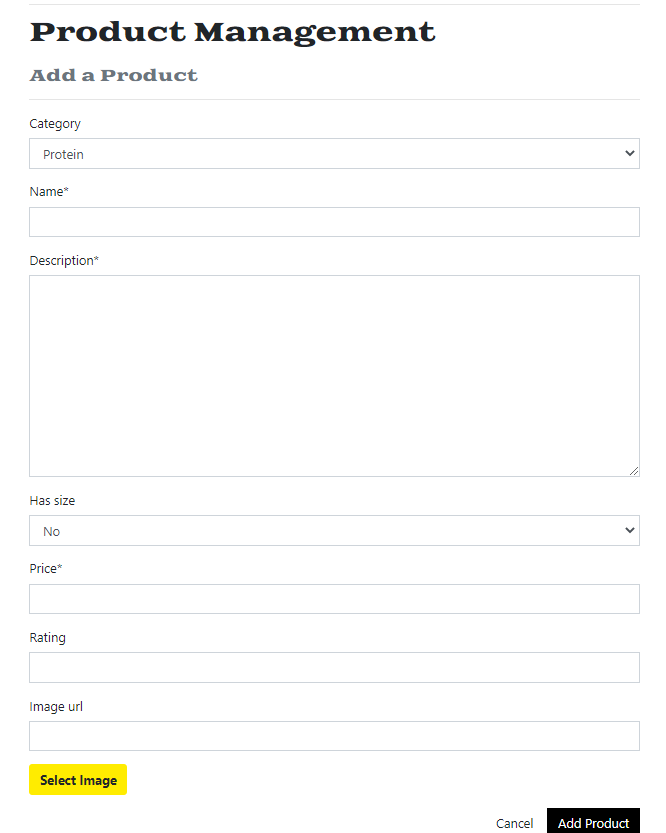
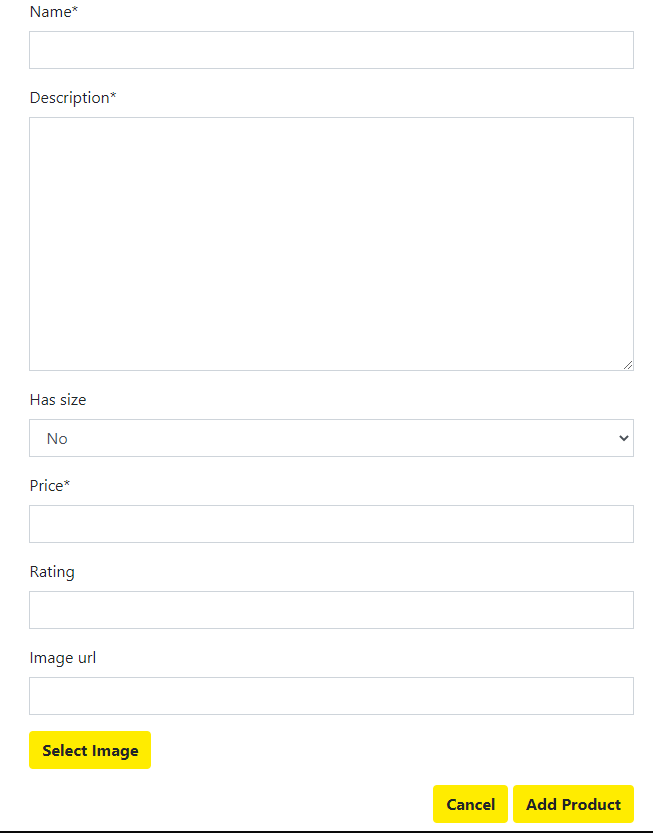
Updated readme

diff --git a/store/templates/store/add_product.html b/store/templates/store/add_product.html
@@ -25,8 +25,8 @@
                         {% endif %}
                     {% endfor %}
                     <div class="text-right">
-                        <a class="btn btn-outline-black rounded-0" href="{% url 'store' %}">Cancel</a>
-                        <button class="btn btn-black rounded-0" type="submit">Add Product</button>
+                        <a class="btn btn-submit rounded" href="{% url 'store' %}">Cancel</a>
+                        <button class="btn btn-submit rounded" type="submit">Add Product</button>
                     </div>
                 </form>
             </div>            

diff --git a/README.md b/README.md
@@ -4,8 +4,13 @@ The objective of this website is to advertise a specialist strength gym in order
 - The wide range of classes that are available to sign up too for gym members
 - The specialist items available for purchase from the store.
 
-The website also introduces you to the philosophy of the gym which, alongisde testomonials, show that Gold's Gym is the place to train if you have any interest in progessing in strength sports.  
+The live version of the webiste can be found [here](https://golds-gym.herokuapp.com/)
 
+To test purchases on the site please use the following card details:
+- Card Number: 4242 4242 4242 4242
+- Exp date: 04/24
+- CVC: 424
+- ZIP: 42424
 ### **Business Goals**
 - To generate revenue for the gym by increasing the number of paid subscribers.
 - To generate revenue for the gym via store sales
@@ -26,7 +31,7 @@ The website also introduces you to the philosophy of the gym which, alongisde te
 6. [Testing](#testing)
 7. [Deployment](#deployment)
 8. [Credits](#credits)
-## UX
+## UXs
 ---
 ### **Ideal User**
 - Anyone with an interest in strength sports
@@ -214,6 +219,7 @@ The color scheme was entirely based around the colour of the logo - I used dev t
 - The classes page shows both basic and bronze users the types of classes that the gym runs. If you are a gold or silver level member of the gym then you are able to sign up to the different classes using the classes table. 
 - Each row in the table is a button that will send a AJAX post to the python view to add or remove a user to a particular class. Users can sign up to the class by clicking on the button, the second click on the button will remove the user from the class. If a class is full it will appear red and you will be unable to sign up to the class.
 ![Product-Detials-Page-Wireframe](static/UX/features/class.PNG)
+![Product-Detials-Page-Wireframe](static/UX/features/class2.PNG)
 
 #### Store Page
 - The store page allows you to view all the products in the store and filter them to allow you to find the item you wish to purchase
@@ -241,13 +247,98 @@ If you are signed in and have previously saved delivery information then it will
 #### Product Management
 - Admin users have access to product management which allows them to add products to the database alongside being able edit/delete products using convenient buttons in both the products detail view and store view.
  ![Product-Detials-Page-Wireframe](static/UX/features/product_management.PNG)
-### Features left to implement
+### **Features to imporve**
+I would like to improve all of the following features given appropriate time:
+- The classes page requires imporvement with better custom notifcations when you sign up to a class and with a completely different structure on mobile devices as having to scroll across a table is a poor user experience.
+- The actual implementation of the classes model could be improved upon by using a dateTime model and generating a weekly schedule of classes. You would then only be able to subscribe to classes in the future and this would also be a more realistic for a gym to have.
+- The html page in classes is poorly constructed with a brute force method of if statements, improving the model would allow for much less html which would improve the websites performace.
+- The product details page would have been improved with a feature that added a carousel of recommened items based on the current item that you are viewing.
+### **Features to add**
+I would like to add the following features given appropriate time:
+- The current method of getting a membership to the website does not reflect the common system for gyms, you are only able to purchase a membership as a product in the store. I would like to implement a subscription system to allow members to pay for their membership on a monthly basis.
+- I would like to improve the stripe payment method so that it does not rely an american zip code to proccess a payment
+- I would like to add an about us gym page to better advertise to potential users 
+- I would like to add a strongman/powerlifting blog to allow users to get relevant information on current local and international strongman and powerlifting events.
 
 
 ## **Data Structure**
 ---
+A relational database was used in this project, I intially started development with SQlite3 however had to move development over to a Heroku Postgres database before the end of the project due to the use of ArrayFields in some of my data strucutres. The database used in production is also a Heroku postgres database.
+### Initial data strucutres
+---
+Before starting the project I outlined what I thought the different models I was using would look like:
+
+- The purpose of the class model was to allow users to sign up to a gym class
+
+![Product-Detials-Page-Wireframe](static/UX/features/class_model.PNG)
+
+- The user model was to be updated with member_types to contorl access to different parts of the site and additonal information was to be used from the base django user class to make the profile page more personable
+
+![Product-Detials-Page-Wireframe](static/UX/features/user_model.PNG)
+
+- The favourites model was to allow users to select favourite products to be viewed on thier profile page.
+
+![Product-Detials-Page-Wireframe](static/UX/features/favourites_model.PNG)
+### **Final data strucutres**
+---
+Classes changes:
+ - It worked better having the classes foreign key in the user field as it is very simple in django to obtain the current users username, hence the foreign key was not needed. The dateTime field proved to difficult to implement effectively so I repalced it with a day and time for the class, this meant I had to ensure strings were identical and gave very little flexibility when creating the view. However due to time constraints and level of scope I was not able to implement the dateTime field.
+
+ ![Product-Detials-Page-Wireframe](static/UX/features/classes_final.PNG)
+
+User changes:
+-  When creating the intial datat structure I did not take into accoutn a user would want to save delivery data so appropriate field were added. To implement the member_types I used
+a positive small integer field with a choice between either 1, 2 or 3 with each number representing a different level of gym membership. I represented the membership types using integers as it made it much easier when accessing the data to modify the UserProfile in the checkout view.
+- I did not add the types such as name - these are not included in the default django user model and it was out of scope to edit this model to allow for a more personable interface. Ideally I would add these fields given more time. 
+ ![Product-Detials-Page-Wireframe](static/UX/features/profile_final.PNG)
+
+ Favourites model:
+ - the final model was essentially identical to the initial model however instead of a user foreignkey I used a char field as request.user readily returned a unqiue user name that I could store and having a unique string field related to each array made operations in the profile view much easier.
+ ![Product-Detials-Page-Wireframe](static/UX/features/favourites_final.PNG)
+
+
+
 ## Technologies Used
 ---
+Designed with HTML5, CSS3, JavaScript, Python3 with the Django Framework
+
+### Languages
+[HTML5](https://en.wikipedia.org/wiki/HTML5)
+
+[CSS3](https://en.wikipedia.org/wiki/Cascading_Style_Sheets)
+
+[JavaScript](https://en.wikipedia.org/wiki/JavaScript)
+
+[Python](https://en.wikipedia.org/wiki/Python_(programming_language))
+
+### Integration
+
+[Bootstrap](https://getbootstrap.com/) - by linking via [Bootstrap CDN](https://www.bootstrapcdn.com/) to HTML Doc
+
+[FontAwesome](https://fontawesome.com/) Icons for Social Media links
+
+ [Google Fonts](https://fonts.google.com/) - Overall Typography import
+
+[jQuery](https://jquery.com/) - JavaScript library
+
+[Django](----------------------) Micro web framework written in Python
+
+### Tools
+
+[Git](https://git-scm.com/) - Distributed Version Control
+
+[GitHub](https://github.com/) - A cloud-based hosting service to manage Git repositories
+
+[Heroku](https://heroku.com) - Container-based cloud platform for deployment and running of apps
+
+[AWS S3](https://aws.amazon.com/s3/) - Cloud storage for static and media files
+
+### Code Validity
+- HTML - [W3C](https://validator.w3.org/) - Markup Validation
+- CSS - [W3C](https://jigsaw.w3.org/css-validator/) - Jigsaw CSS Validation
+- JavaScript - [JSHINT](https://jshint.com/) - JavaScript code warning & error check
+- Python - [Pyton Tester](https://extendsclass.com/python-tester.html) Python code syntax checker
+
 ## Testing
 ---
 **For the testing please see [testing.md](TESTING.md)**
@@ -260,8 +351,173 @@ The project was hosted on Github and deployed through heroku.
 - Stripe account
 - Heroku account
 - AWS account (free tier)
-
+### **Setting up gitpod development environment**
 ### Step 1 - Clone my repository
 - To clone my repository you first need to logged into github and go to [my repository](https://github.com/JohnGC1510/milestone_project_4)
 - Click on the "code" button just above the files
-- Click "Open with GitHub Desktop" and follow the instructions in the GitHub desktop application. Other ways to clone a repository can be found [here](https://docs.github.com/en/github/creating-cloning-and-archiving-repositories/cloning-a-repository#cloning-a-repository-to-github-desktop) 
+- Click "Open with GitHub Desktop" and follow the instructions in the GitHub desktop application. 
+- Alternatively copy the URL and clone the repository in your local ID using
+```
+git clone https://github.com/JohnGC1510/milestone_project_4.git
+```
+### Step 2 - Working with local clone
+-  To work with the local clone you need to ensure all environmental variables have been set in an env.py file. These variables are private so ensure that you have a .gitignore file that prevents your env.py file being pushed to github. An example of a env.py file can be seen below:
+```
+import os
+
+os.environ['SECRET_KEY'] = '************************************'
+DEVELOPMENT = True
+os.environ['STRIPE_PUBLIC_KEY'] = '******************************'
+os.environ['STRIPE_SECRET_KEY'] = '********************************'
+os.environ['STRIPE_WH_SECRET'] = '************************************************'
+```
+### Step 2.1 - Getting the environment variables
+- To set up all the environmental variables above you will need have made a Stripe account. 
+- STRIPE_PUBLIC_KEY = Publishable key, STRIPE_SECRET_KEY = Secret key, never reveal your secret key.
+- To get the WH secret you need to setup a webhook, on the lefthand menu of the page click on developes and navigate to the Webhooks page.
+- Click the button + Add Endpoint and complete the form by adding you local development environment as the URL (do not forget to end in a / eg. 
+`my-local-env.gitpod.io/checkout/wh/`  ) and click the receive all events link in the middle of the box.
+- You now have a webhook with a signing secret, this is your WH secret variable.
+### Step 2.2 - Installing dependencies
+- When cloning the project you should cloned the requiremnts.txt file, if this is not the case then use the following command in the CLI:
+```
+$ pip3 freeze -- local > requirements.txt
+```
+This file will contain a list of dependencies for the project. These can be installed with the following command in the CLI:
+```
+$ pip install -r requirements.txt
+```
+
+- Ensure you have a procfile as this will tell heroku how to run the application. A procfile can be created in the CLI using:
+```
+$ echo web: python app.py > Procfile
+```
+
+- Ensure you have added a .gitignore file to prevent any private data being pushed to github and make sure to include the following
+```
+    core.Microsoft*
+    core.mongo*
+    core.python*
+    env.py
+    __pycache__/
+    *.py[cod]
+    venv
+    .vscode
+    *.sqlite3
+    *.pyc
+```
+### Step 2.3 - Database migrations
+- Apply model migrations useing `python manage.py migrate`
+- load the data into the environment from the fixures files using the commands
+```
+python3 manage.py loaddata categories
+python3 manage.py loaddata products
+python3 manage.py loaddata classes
+```
+
+### Step 2.4 - Creating a superuser
+- Type `python manage.py createsuperuser` into the terminal and follow the prompts.
+
+### Step 2.5 Run locally
+- The project should now be ready to run locally by typing `python manage.py runserver` and selecting port 8000. 
+- Ensure port 8000 is set to public and not private
+### Step 3 Deploying to Heroku
+In Heroku all the static files are hosted in an S3 bucket in aws, so before you beign to do anything else you need to login to/create an aws account.
+     
+### Step 3.01 - create the bucket
+- search for S3 and click on it  
+- select the geographic region closest to you
+- uncheck block all public access
+- click create bucket
+- In the **properties section** of the bucket:
+    - turn on static web hosting
+    - fill in some default values for the index and error documents
+    - click save
+- In the **permissions section** of the bucket:
+    - add the **_cors configuration_**
+- Go to the **bucket policy section**
+    - select policy generator
+    - policy type will be **_s3 bucket policy_**
+    - allow all principals by using *
+    - the action will be **_get object_**
+    - copy the **ARN** and paste it into the **_arn box_**
+    - click **_Add Statement_**
+    - then **_generate policy_**
+    - copy this policy into the **_bucket policy editor_**
+    - allow access to all resources in this bucket by adding a /* to the end of the resource key
+    - click save
+- Go to the **access control list section**
+    - set the list objects permission for everyone under the Public Access section 
+
+### Step 3.02 - create a user to access the bucket
+- from the services menu open **Iam**
+- click groups
+- create a new group
+### Step 3.03 - Create the policy used to access the bucket
+- click policies
+- create policy
+- go to the **_JSON tab_**
+- select **_import managed policy_**
+- search for **_s3_**
+- import the **_s3 full access policy_**
+- get the **_bucket ARN_** from the bucket policy page in s3
+- paste it in
+- click review policy
+- give it a name and description
+- click create policy
+### Step 3.04 Attach the policy
+- go to groups
+- click on the group you created
+- select attach policy option
+- search for the policy you just created and select it
+- Finally click attach policy
+### Step 3.05 Create a user
+- on the users page click **_add user_**
+- give it a name and **_programmatic access_**
+- select next
+- click through to the end and then **_create user_**
+ - download the **CSV file** which will contain the **_user access key_** and **_secret access key_** which need to be added to the Heroku config vars  
+ ### Step 3.1 Connecting Heroku to GitHub
+ The project will automatically deploy to heroku after the following has been completed:
+- Once you are logged in to Heroku create a new app selecting the appropriate region.
+
+- Choose Deployment method "GitHub" (if this section is accidentally missed, you can use the tab selection within your dashboard "DEPLOY")
+
+- - Select the "connect to GitHub" button and search for your repository using the form provided.
+
+### Step 3.2 Setting up email notifcations
+- Setup a gmail account to allow emails to be sent - in gmail settings enable 2-step verification
+- Create an app password by selecting a 'mail' app and setting device type to other - name it as suits you
+
+### Step 3.3 Add the database
+- In your herokuapp navigate to the resources page, search for and select 'Heroku  Postgres'
+
+
+### Step 3.4 Adding congif variables
+- Navigate to the "Settings" tab in the heroku app
+- Scroll to the section "Config Vars" and click "reveal config vars" button
+- Ensure all the following config vars are configured:
+```
+AWS_ACCESS_KEY_ID
+AWS_SECRET_ACCESS_KEY
+DATABASE_URL (set automatically by Postgres)
+EMAIL_HOST_PASS (gmail app password)
+EMAIL_HOST_USER (your gmail)
+SECRET_KEY (djnago secret key)
+STRIPE_PUBLIC_KEY
+STRIPE_SECRET_KEY
+STRIPE_WH_SECRET
+USE_AWS = 1
+```
+### Step 3.5 Deploy the application to Heroku
+- Navigate back to the "Deploy" tab:
+- Scroll to automatic deploys and enable automatic deployment.
+- Scroll to the "Manual Deploy" tab:
+    1. Select the branch you wish to deploy (master is default)
+    2. Click the "Deploy Branch" button. (This may take some time as Heroku uploads the app to their servers.) 
+
+- Once the build is complete, a "View App" button will appear and you should be informed that the app has successfully deployed.
+
+- Common issues include outdated requirements.txt and/or missing Procfile, if errors occur, check these are both correct before investigating further 
+
+
